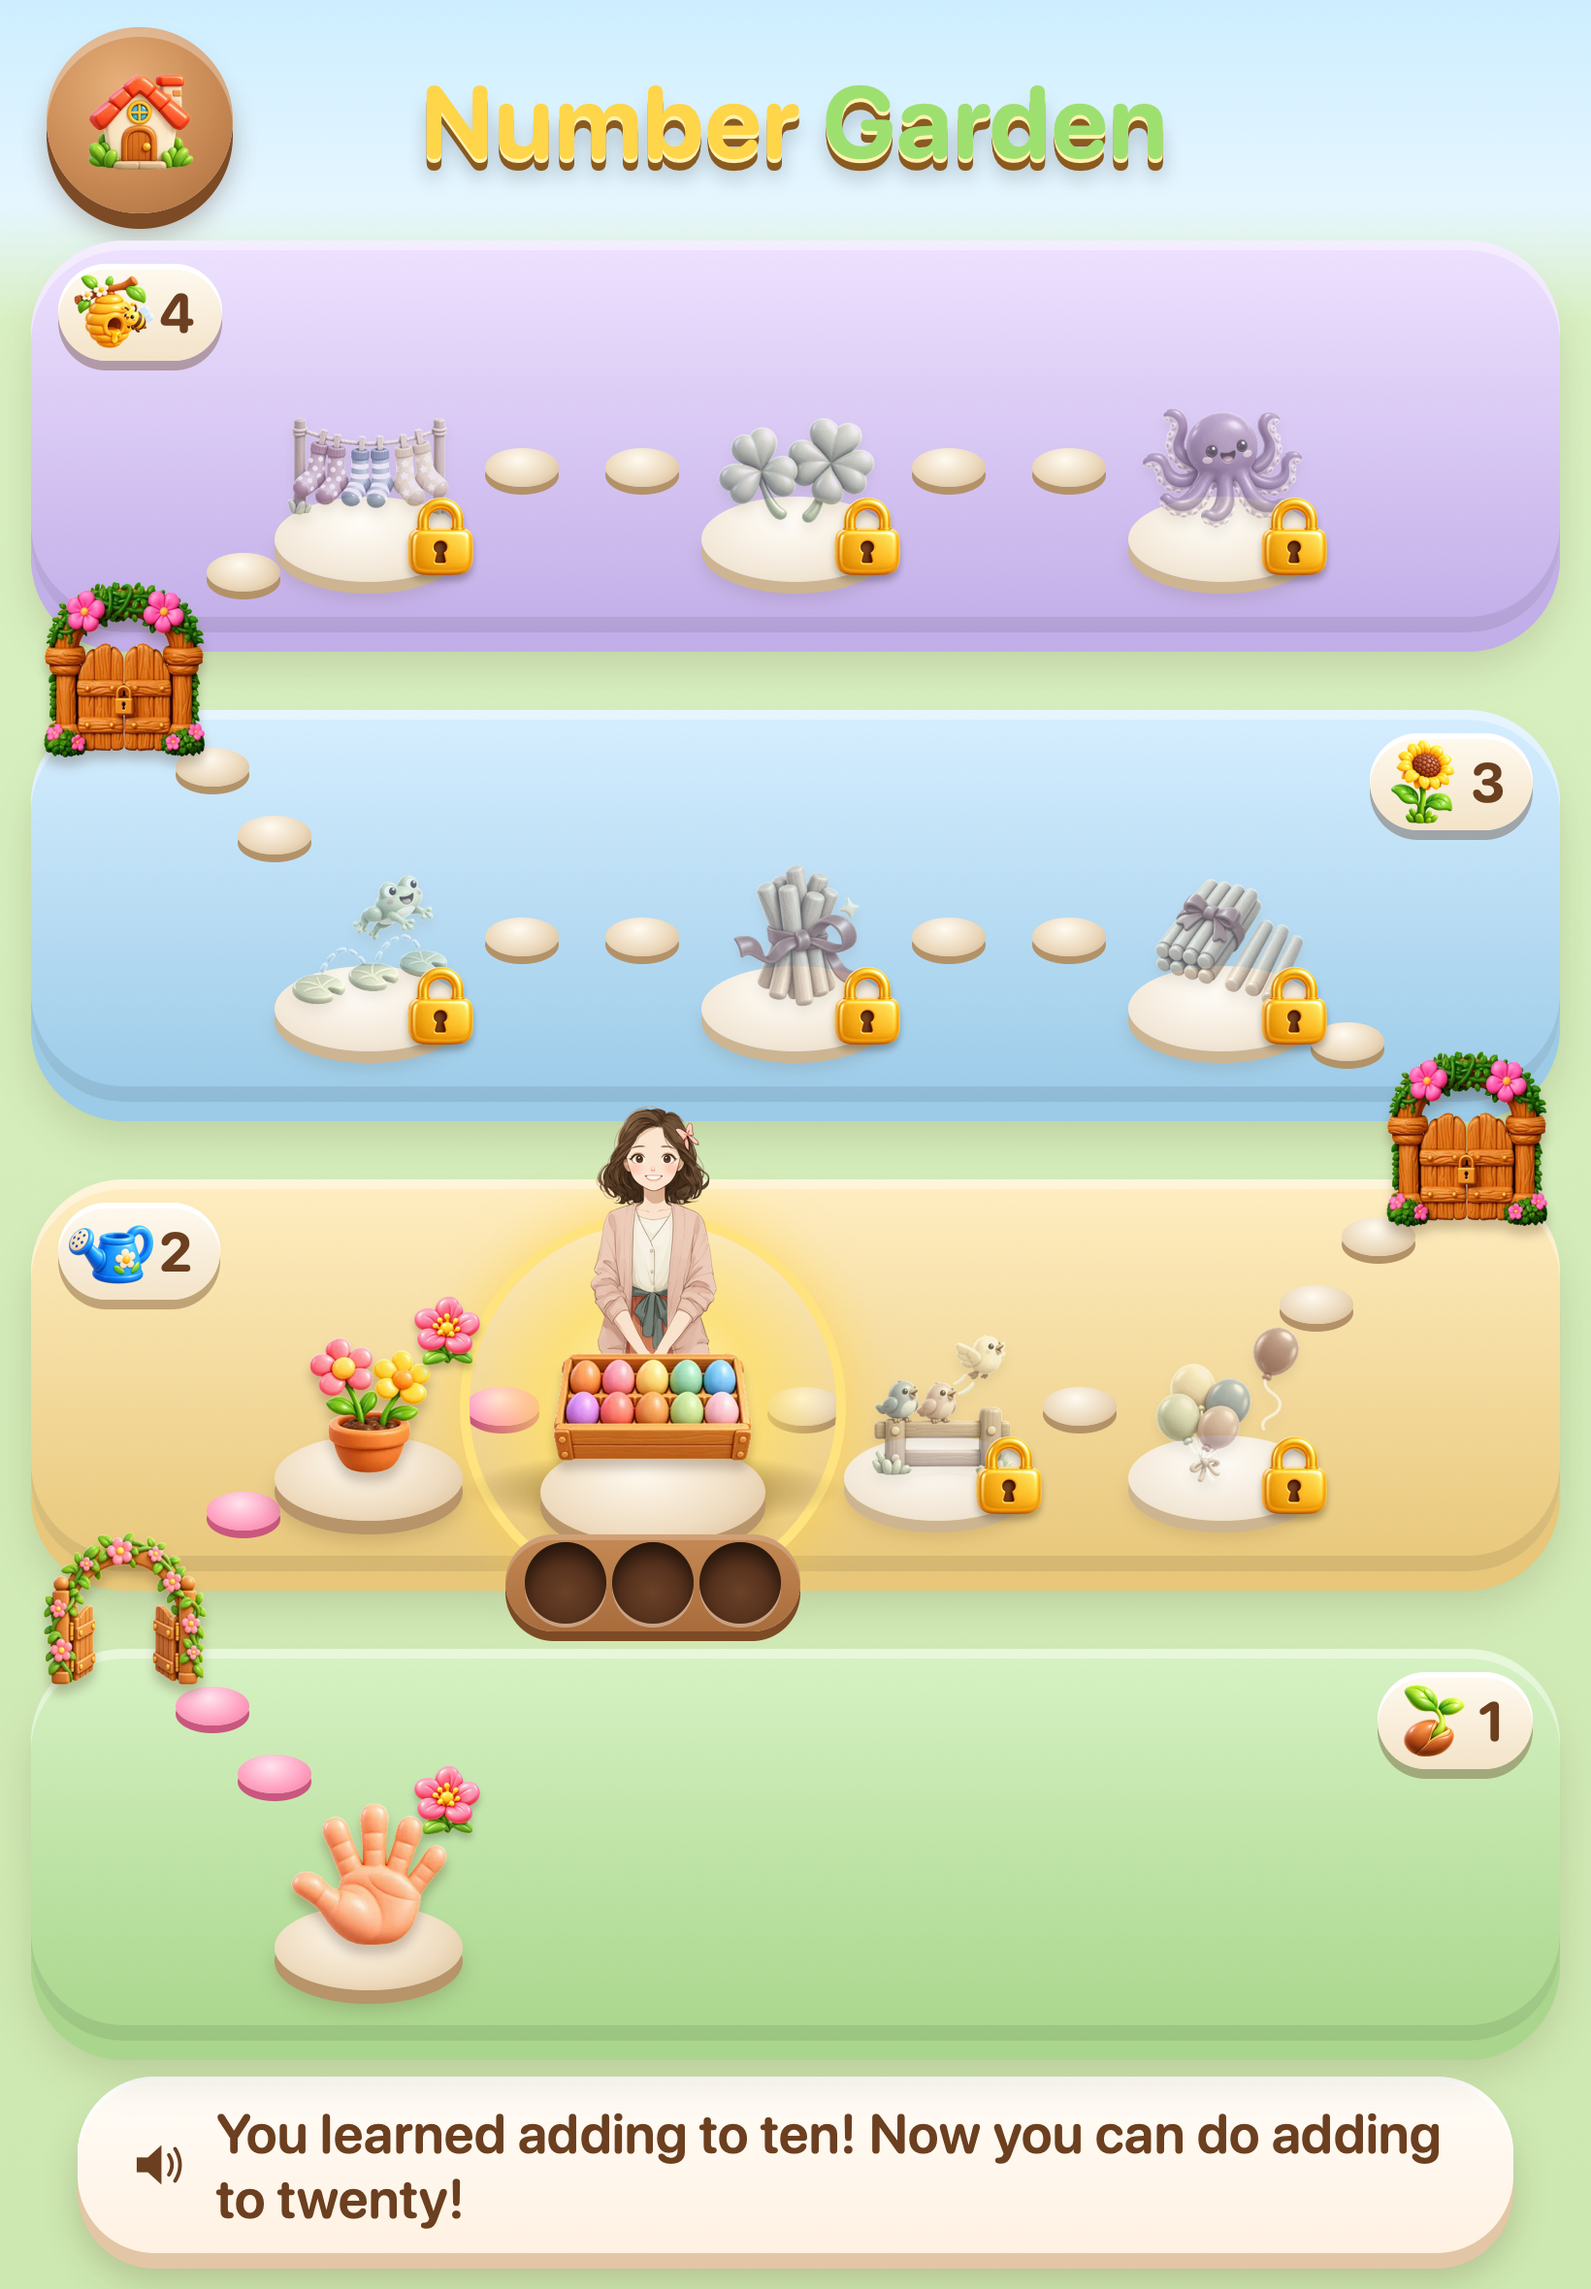
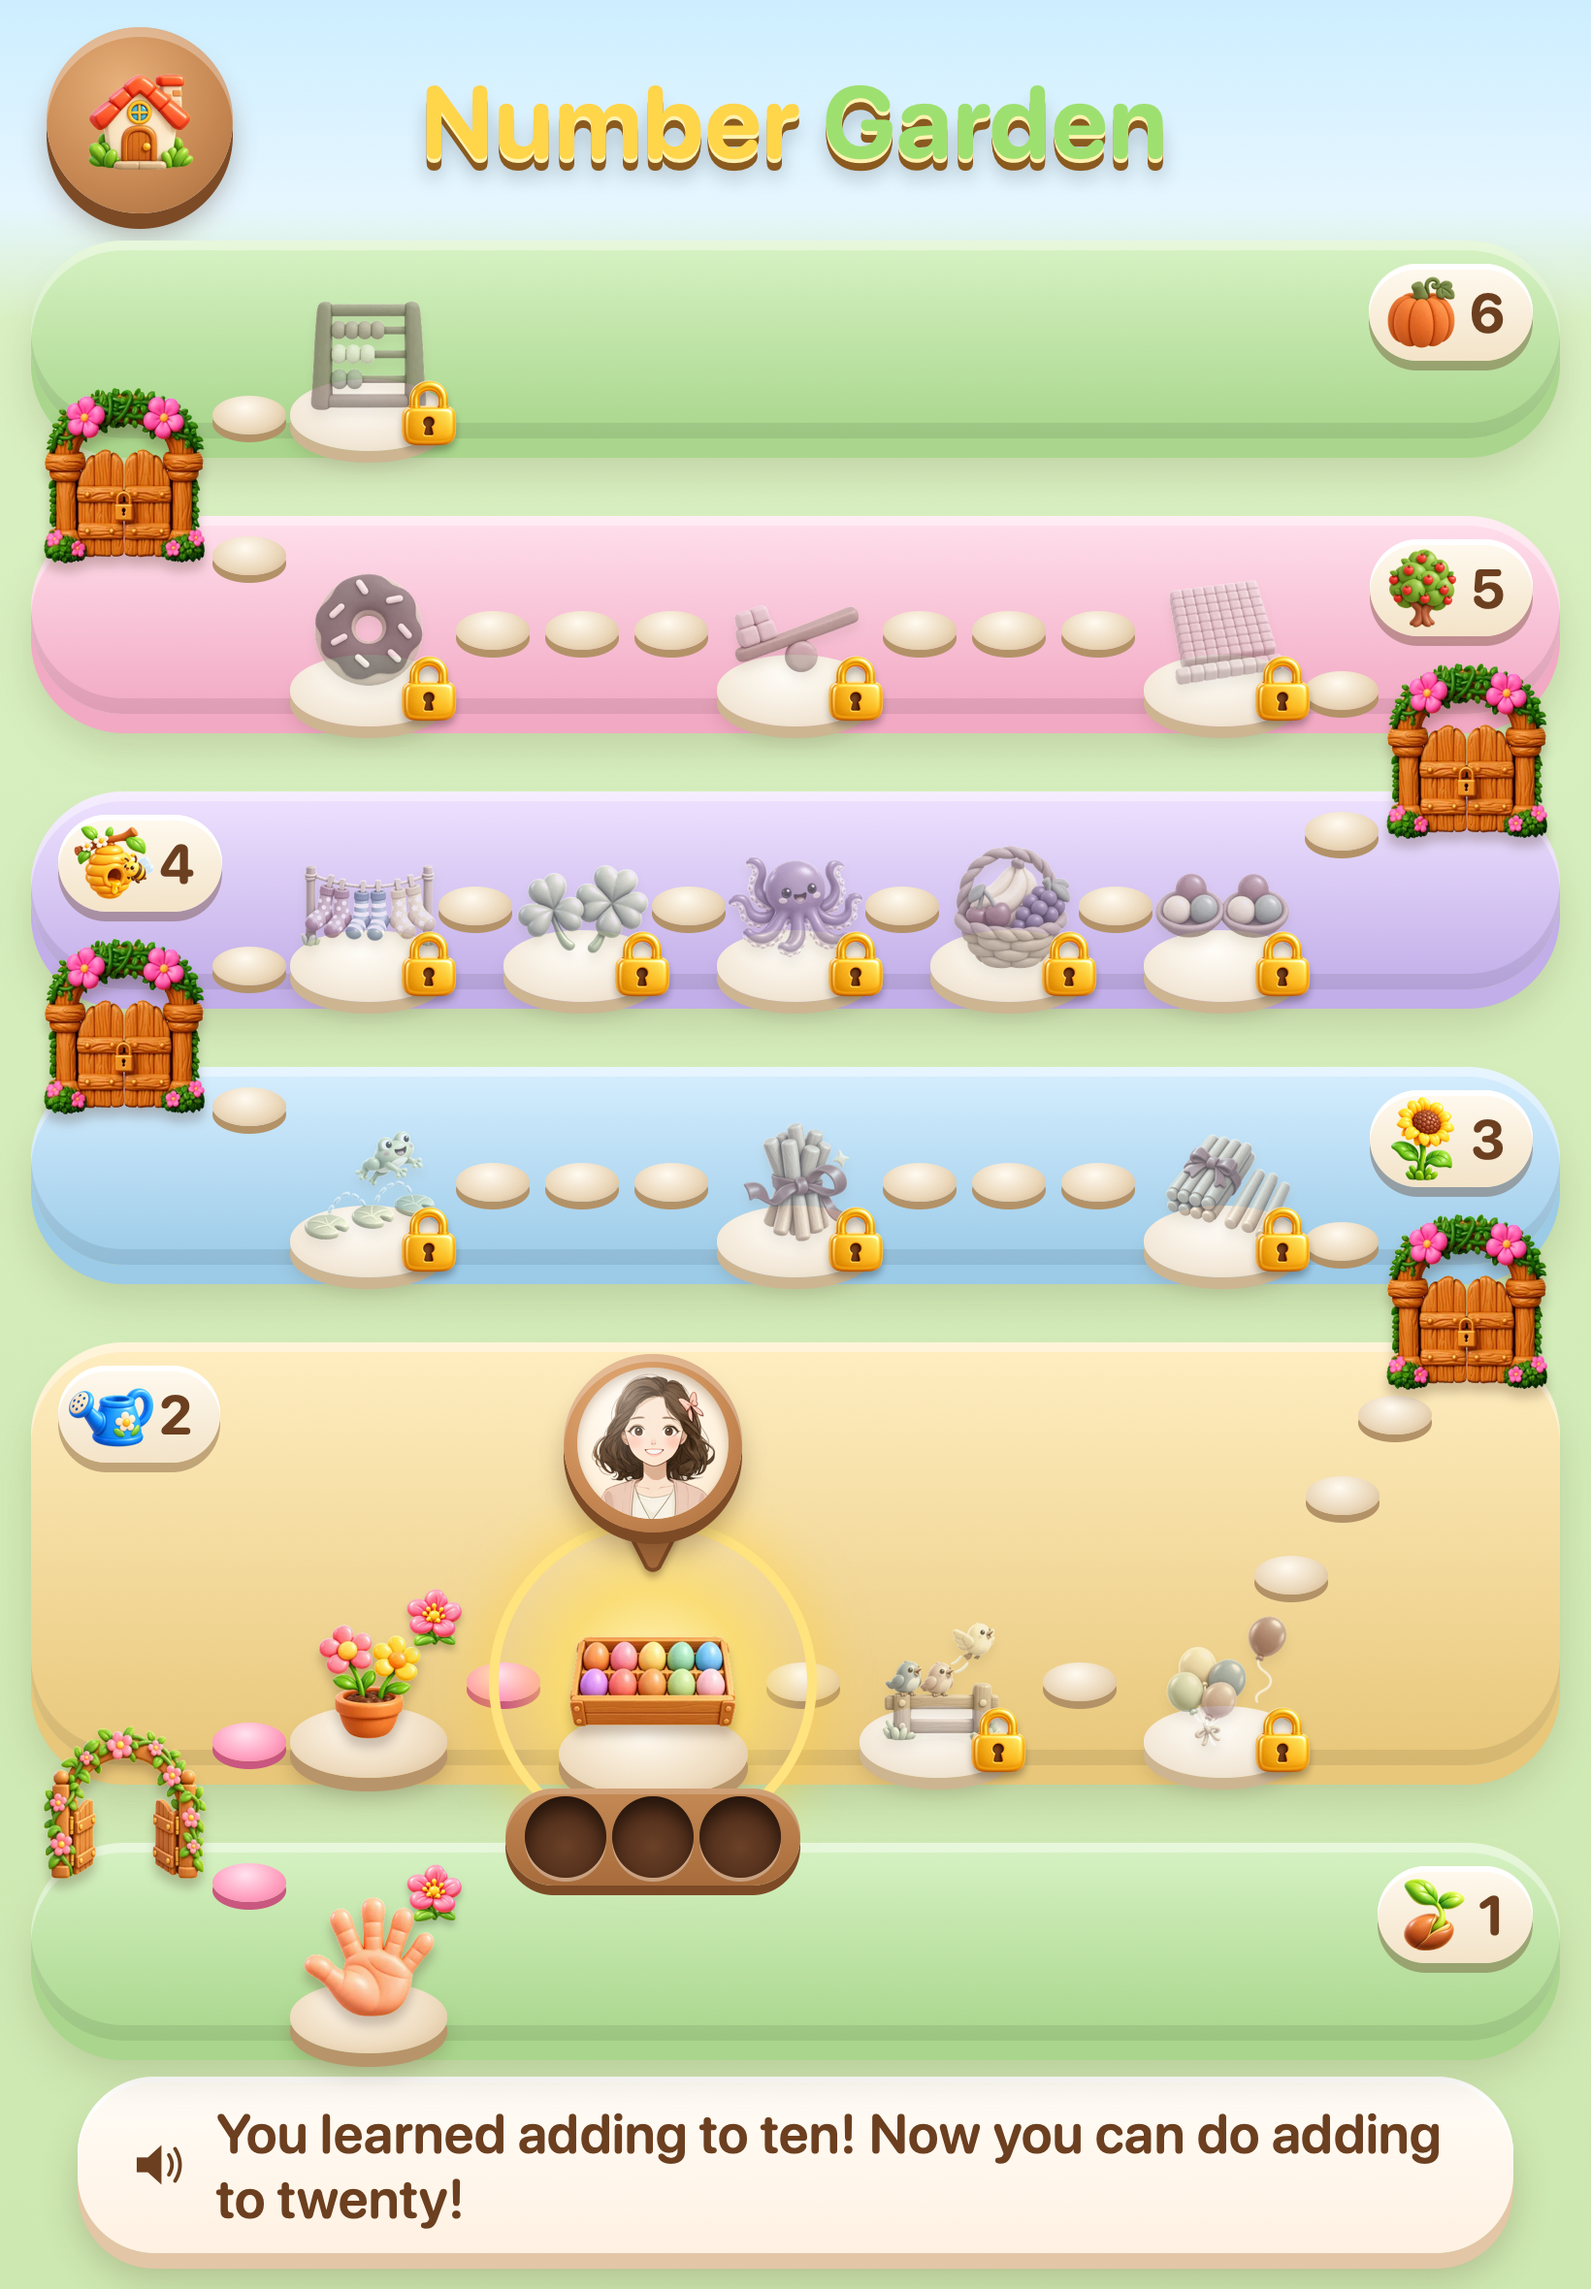
test(e2e): wave 5 Number Garden counts; "Zeros," render input; zeros' measured u
The web map and session-end specs follow the two new steps (17 stops, 6
lands, 5 gates; seeds end at add-two-digit). path.stop.hundreds-zeros
renders from "Zeros," (one-word clip, lesson 3; coordinator's call, a
plain per-line input). The layout test pins zeros' measured u per form
(P 9, L 8, TP 20, TL 15).

diff --git a/e2e/emmas-path-map.spec.ts b/e2e/emmas-path-map.spec.ts
@@ -46,6 +46,8 @@ const MATH = [
   'div-share',
   'hundreds',
   'hundreds-addsub',
+  'hundreds-zeros',
+  'add-two-digit',
 ] as const
 const WORD = [
   'letter-names',
@@ -318,11 +320,11 @@ test.describe("Emma's Path — map screen (123jpnbc3dr)", () => {
       'data-node',
       'add-to-10',
     )
-    await expect(page.getByTestId('map-stop')).toHaveCount(15)
-    await expect(page.getByTestId('map-plinth')).toHaveCount(15)
-    await expect(page.getByTestId('map-band')).toHaveCount(5)
-    await expect(page.getByTestId('map-gate')).toHaveCount(4)
-    await expect(page.getByTestId('map-land-pill')).toHaveCount(5)
+    await expect(page.getByTestId('map-stop')).toHaveCount(17)
+    await expect(page.getByTestId('map-plinth')).toHaveCount(17)
+    await expect(page.getByTestId('map-band')).toHaveCount(6)
+    await expect(page.getByTestId('map-gate')).toHaveCount(5)
+    await expect(page.getByTestId('map-land-pill')).toHaveCount(6)
     await expect(page.getByTestId('map-title')).toHaveText('Number Garden')
     await expect(ribbon(page)).toHaveText(
       'Here is your path! You are on adding to ten.',
@@ -492,8 +494,8 @@ test.describe("Emma's Path — map screen (123jpnbc3dr)", () => {
       stop(page, current).locator('[data-testid="map-bud"][data-open="true"]'),
     ).toHaveCount(2)
     // Mastered stops carry the bloom badge; locked ones are pale + padlock
-    // (every stop after the current one: 9 since more and less, content
-    // wave 4).
+    // (every stop after the current one: 11 since zeros and adding big
+    // numbers, content wave 5).
     const lockedStops = MATH.length - 6
     await expect(page.getByTestId('map-flower-badge')).toHaveCount(5)
     await expect(page.getByTestId('map-stop-frost')).toHaveCount(lockedStops)
@@ -527,10 +529,10 @@ test.describe("Emma's Path — map screen (123jpnbc3dr)", () => {
     const firstAhead = stones.indexOf('false')
     expect(firstAhead).toBeGreaterThan(0)
     expect(stones.slice(firstAhead).every((w) => w === 'false')).toBe(true)
-    // Land pills with their numbers (showLevelToMarian on): 5 since
-    // hundreds (content wave 3).
-    await expect(page.getByTestId('map-land-pill')).toHaveCount(5)
-    await expect(page.getByTestId('map-land-number')).toHaveCount(5)
+    // Land pills with their numbers (showLevelToMarian on): 6 since
+    // adding big numbers' land 6 (content wave 5).
+    await expect(page.getByTestId('map-land-pill')).toHaveCount(6)
+    await expect(page.getByTestId('map-land-number')).toHaveCount(6)
     await expectArtLoaded(page)
     await page.screenshot({ path: `${SHOTS}/map-math-mid-tree.png` })
 
@@ -678,7 +680,7 @@ test.describe("Emma's Path — map screen (123jpnbc3dr)", () => {
     )
     await expect(page.getByTestId('map-emma')).toHaveAttribute(
       'data-node',
-      'hundreds-addsub',
+      'add-two-digit',
     )
     await expect(page.getByTestId('map-emma')).toHaveAttribute(
       'data-pose',
@@ -727,9 +729,9 @@ test.describe("Emma's Path — map screen (123jpnbc3dr)", () => {
   }) => {
     await arm(page, seedProgress({ math: 3, showLevelToMarian: false }))
     await openMapFromHub(page, 'math')
-    await expect(page.getByTestId('map-land-pill')).toHaveCount(5)
+    await expect(page.getByTestId('map-land-pill')).toHaveCount(6)
     await expect(page.getByTestId('map-land-number')).toHaveCount(0)
-    await expect(page.getByTestId('map-stop')).toHaveCount(15)
-    await expect(page.getByTestId('map-gate')).toHaveCount(4)
+    await expect(page.getByTestId('map-stop')).toHaveCount(17)
+    await expect(page.getByTestId('map-gate')).toHaveCount(5)
   })
 })

diff --git a/mobile/src/layout/contentWave5Layout.test.ts b/mobile/src/layout/contentWave5Layout.test.ts
@@ -245,13 +245,25 @@ describe("adding big numbers' blocks and bundle (§ 3.2, § 3.5, AC 12)", () => 
 })
 
 describe("zeros' trays (§ 2.3)", () => {
+  // Measured 2026-10-19: P5's 9 rods (§ 2.3 counts 6) widen the tens tray,
+  // so P takes u = 9 (hundreds 10); L, TP and TL keep hundreds' u, TP with
+  // 2 pt to spare.
+  const U: Record<string, [number, number]> = {
+    'P 375×667': [9, 329],
+    'L 667×375 b21': [8, 352],
+    'TP 744×1133': [20, 710],
+    'TL 1133×744': [15, 605],
+  }
+
   it.each(FORMS)(
     '%s: three trays sized for 7 flats, 9 rods, 8 cubes; an empty tray keeps its width',
-    (_name, v) => {
+    (name, v) => {
       const layout = extendedMathLayout(v, 'place-value')
       const m = placeValueMetrics(layout, ZEROS)
       expect(m.places).toEqual(['hundreds', 'tens', 'ones'])
       expect([m.maxFlats, m.maxRods, m.maxCubes]).toEqual([7, 9, 8])
+      expect([m.u, Math.round(m.block.width)]).toEqual(U[name])
+      expect(m.fits(m.u + 1)).toBe(false)
       expect(m.block.width).toBeLessThanOrEqual(layout.problem.width)
       expect(m.block.height).toBeLessThanOrEqual(layout.problem.height)
       // P1 305: an empty tens tray, its tray full width, no rods.

diff --git a/packages/core/src/emmasPath/pathLines.ts b/packages/core/src/emmasPath/pathLines.ts
@@ -74,6 +74,15 @@ export const THEN_THIS_INPUT_STEPS: ReadonlySet<SkillNode> = new Set<SkillNode>(
 )
 
 /**
+ * One line's render input, by line id: a one-word clip goes to Lily as
+ * "Word," (one word alone reads as an abbreviation: "Sat." came back as
+ * "Saturday", #607; content wave 5 lesson 3). The caption stays `text`.
+ */
+const LINE_INPUTS: Readonly<Record<string, string>> = {
+  'path.stop.hundreds-zeros': 'Zeros,',
+}
+
+/**
  * Two-name forms, one bake per (stop, current step) pair: 111 `locked-later`
  * + 38 `gate-locked` lines. Deferred by Thomas 2026-10-05 until he has heard
  * the first batch (140 one-name lines); their text is final, their audio is
@@ -117,7 +126,7 @@ function buildLines(): PathLine[] {
     src: string | null = DEFERRED_PATH_LINE_KINDS.has(kind)
       ? null
       : pathLineSrc(id),
-    input?: string,
+    input: string | undefined = LINE_INPUTS[id],
   ) =>
     lines.push({
       id,

diff --git a/packages/core/src/progress/contentWave5Math.wiring.test.ts b/packages/core/src/progress/contentWave5Math.wiring.test.ts
@@ -237,9 +237,19 @@ describe('the lines (§ 9.1, AC 8)', () => {
     expect(pathLine('path.locked.next.hundreds-addsub')?.input).toBeUndefined()
     for (const l of PATH_LINES)
       if (l.input !== undefined) {
-        expect(l.kind).toBe('locked-next')
+        expect(
+          l.kind === 'locked-next' || l.id === 'path.stop.hundreds-zeros',
+        ).toBe(true)
         expect(l.input.length).toBe(l.text.length)
       }
+  })
+
+  it('the one-word stop line renders from "Zeros," (lesson 3); its caption stays "Zeros."', () => {
+    expect(pathLine('path.stop.hundreds-zeros')).toMatchObject({
+      text: 'Zeros.',
+      input: 'Zeros,',
+    })
+    expect(pathLine('path.stop.add-two-digit')?.input).toBeUndefined()
   })
 
   it('every new line awaits its Lily render; land 5 and more and less are not new', () => {

diff --git a/e2e/emmas-path-session-end-beats.spec.ts b/e2e/emmas-path-session-end-beats.spec.ts
@@ -48,6 +48,8 @@ const MATH = [
   'div-share',
   'hundreds',
   'hundreds-addsub',
+  'hundreds-zeros',
+  'add-two-digit',
 ] as const
 
 /** Mastered before `current`, practicing at it, locked after. */

diff --git a/e2e/guidance-session-end.spec.ts b/e2e/guidance-session-end.spec.ts
@@ -50,6 +50,8 @@ const MATH = [
   'div-share',
   'hundreds',
   'hundreds-addsub',
+  'hundreds-zeros',
+  'add-two-digit',
 ] as const
 
 /** Mastered before `current`, practicing at it, locked after. */

diff --git a/e2e/session-end-caption-clear.spec.ts b/e2e/session-end-caption-clear.spec.ts
@@ -61,6 +61,8 @@ const MATH = [
   'div-share',
   'hundreds',
   'hundreds-addsub',
+  'hundreds-zeros',
+  'add-two-digit',
 ] as const
 
 function mathLevels(current: number): Record<string, string> {

diff --git a/e2e/landscape-fit.spec.ts b/e2e/landscape-fit.spec.ts
@@ -60,6 +60,8 @@ const MATH = [
   'div-share',
   'hundreds',
   'hundreds-addsub',
+  'hundreds-zeros',
+  'add-two-digit',
 ] as const
 
 function pastDayISO(daysAgo: number): string {
